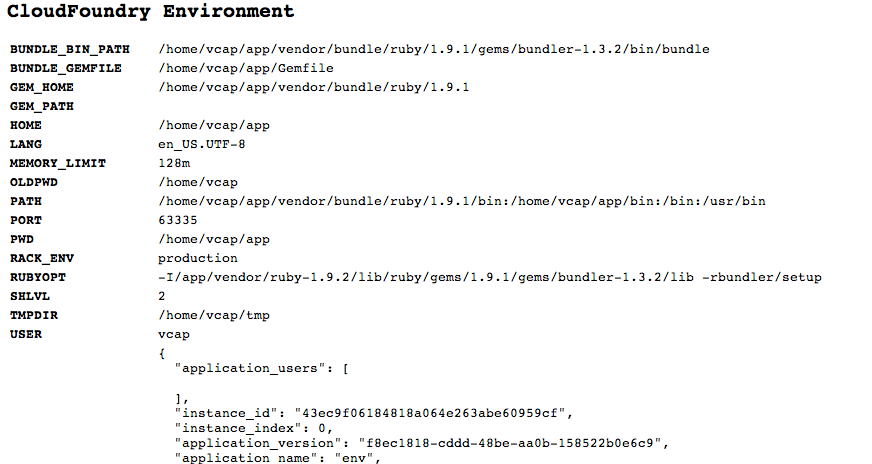
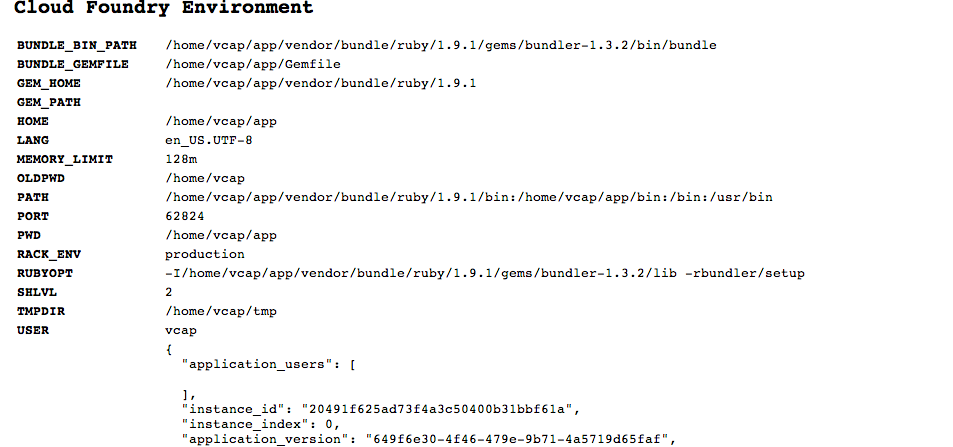
Improved a few bits and pieces and refreshed docs

diff --git a/env.rb b/env.rb
@@ -3,9 +3,9 @@ require 'sinatra'
 require 'json/pure'
 
 get '/' do
-  res = "<html><body style=\"margin:0px auto; width:80%; font-family:monospace\">" 
-  res << "<head><title>CloudFoundry Environment</title></head>"
-  res << "<h2>CloudFoundry Environment</h2>"
+  res = "<html><body style=\"margin:0px auto; width:80%; font-family:monospace\">"
+  res << "<head><title>Cloud Foundry Environment</title><meta name=\"viewport\" content=\"width=device-width\"></head>"
+  res << "<h2>Cloud Foundry Environment</h2>"
   res << "<div><table>"
   ENV.keys.sort.each do |key|
     value = begin
@@ -16,7 +16,7 @@ get '/' do
     res << "<tr><td><strong>#{key}</strong></td><td>#{value}</tr>"
   end
   res << "</table></div>"
-  res << "<h2>Request Headers</h2>"
+  res << "<h2>HTTP Request Headers</h2>"
   res << "<div><table>"
   env.inject({}){|acc, (k,v)| acc[$1.downcase] = v if k =~ /^http_(.*)/i; acc}.sort.each do |k,v|
     res << "<tr><td><strong>#{k}</strong></td><td>#{v}</tr>"

diff --git a/README.md b/README.md
@@ -1,15 +1,14 @@
-# Display CF environment variables
+# Display Cloud Foundry environment variables
 
 <img src="https://raw.github.com/cloudfoundry-community/cf-env/master/docs/images/demo.png" />
 
-A simple sinatra application, once deployed to Cloud Foundry, will echo the Environment and HTTP Request Headers.
+A simple Sinatra application. Once deployed to Cloud Foundry, it will echo the Environment and HTTP Request Headers.
 
-Especially useful to learn about service connection details (`$VCAP_SERVICES`) being passed to an application. Create them, and bind them to this running application, and you'll see the nested JSON string that is set in `$VCAP_SERVICES`.
-
-For an example deployment of this application see:
-http://sv-env.cloudfoundry.com
+This is especially useful to learn about service connection details (`$VCAP_SERVICES`) being passed to an application. Create them, bind them to this running application, and you'll see the nested JSON string that is set in `$VCAP_SERVICES`.
 
 ## Deploy
+
+The repo contains a manifest file which creates a new application called `cfenv`, with a random string in the URL to avoid collisions.
 
 To deploy:
 
@@ -17,39 +16,32 @@ To deploy:
 $ cf push
 Using manifest file manifest.yml
 
-Custom startup command> none
+Creating cfenv... OK
 
-Creating env... OK
-
-1: env
-2: none
-Subdomain> env
-
-1: mypaas.com
-2: none
-Domain> mypaas.com
-
-Binding env.mypaas.com to hello... OK
-Uploading hello... OK
-Starting hello... OK
------> Downloaded app package (4.0K)
-Installing ruby.
------> Using Ruby version: ruby-1.9.2
+Creating route cfenv-dfe2f.cfapps.io... OK
+Binding cfenv-dfe2f.cfapps.io to cfenv... OK
+Uploading cfenv... OK
+Starting cfenv... OK
+-----> Downloaded app package (64K)
+-----> Using Ruby version: ruby-1.9.3
 -----> Installing dependencies using Bundler version 1.3.2
        Running: bundle install --without development:test --path vendor/bundle --binstubs vendor/bundle/bin --deployment
        Fetching gem metadata from https://rubygems.org/..........
+       Fetching gem metadata from https://rubygems.org/..
+       Installing json_pure (1.8.0)
        Installing rack (1.5.2)
+       Installing rack-protection (1.5.0)
+       Installing tilt (1.4.1)
+       Installing sinatra (1.4.3)
        Using bundler (1.3.2)
        Your bundle is complete! It was installed into ./vendor/bundle
        Cleaning up the bundler cache.
------> Uploading staged droplet (24M)
------> Uploaded droplet
-Checking hello...
+-----> Uploading droplet (24M)
+Checking cfenv...
 Staging in progress...
-  0/1 instances: 1 starting
-  0/1 instances: 1 starting
+Staging in progress...
+Staging in progress...
   1/1 instances: 1 running
 OK
-
-$ open http://env.mypaas.com
+$ open http://cfenv-dfe2f.cfapps.io
 ```
